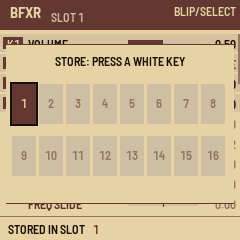
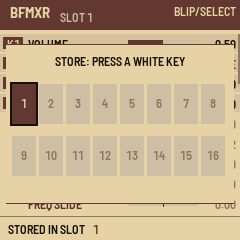
0.5: the firmware is BFMXR
The name on the screen, the splash, the USB device (BFMXR FM-1), the package
(bfmxr.fwsc), the installer, the Library page and its files, the guide and the
screen reader's words. The engine (app/bfxr.c) and bfxr.net / bfxr2 keep their
names. The package identity (FM-1_62) is unchanged, so 0.5 installs over BFXR
and keeps its settings and slots.

Claude-Session: https://claude.ai/code/session_01P2YZfcTCoPyuHSCDNbEdpU

Changed region(s): [[0.0875, 0.0292, 0.4083, 0.1167]]

diff --git a/web/library/index.html b/web/library/index.html
@@ -1,6 +1,6 @@
 <!doctype html>
 <!-- SPDX-License-Identifier: MIT
-     BFXR's Library: the 16 sounds stored on an FM-1 running BFXR, read over USB (Web MIDI SysEx, app/app.c "the slots
+     BFMXR's Library: the 16 sounds stored on an FM-1 running BFMXR, read over USB (Web MIDI SysEx, app/app.c "the slots
      over USB"), played, saved as .bfxr (bfxr.net's file) and .wav, and .bfxr files sent back into the slots.
      The sounds are rendered by bfxr2's library (bfxrlib.min.js, MIT, Stephen Lavelle), copied beside this page by the
      build. The part between the "protocol" markers is what tools/library_test.mjs runs against the simulator. -->
@@ -8,7 +8,7 @@
 <head>
 <meta charset="utf-8">
 <meta name="viewport" content="width=device-width, initial-scale=1">
-<title>Library · BFXR</title>
+<title>Library · BFMXR</title>
 <style>
 :root { --ground: #e7d1a7; --card: #f0e0bf; --ink: #1e100c; --muted: #6b4a3a; --bar: #5e3028; --rule: #ccbda1; --teal: #065456; }
 * { box-sizing: border-box; }
@@ -43,10 +43,10 @@ a { color: var(--bar); }
 </head>
 <body>
 <main>
-<h1>BFXR Library</h1>
+<h1>BFMXR Library</h1>
 <p class="lead">The 16 sounds on your FM-1: play them, save them to your computer as <b>.bfxr</b> (opens in
 <a href="https://www.bfxr.net">bfxr.net</a>) or <b>.wav</b>, and send .bfxr files back. Chrome or Edge, with the FM-1
-connected by USB and running BFXR.</p>
+connected by USB and running BFMXR.</p>
 
 <div class="bar">
   <button id="connect">Connect</button>
@@ -65,7 +65,7 @@ connected by USB and running BFXR.</p>
       bfxr.net's <b>Bfxr</b> sounds can be sent (not its other synths).</li>
     <li>The .wav files are rendered here by bfxr's own code, at 44.1 kHz.</li>
   </ul>
-  <p><a href="../">BFXR</a> · <a href="https://github.com/nickhelliot/Bfm-1xr">Source</a></p>
+  <p><a href="../">BFMXR</a> · <a href="https://github.com/nickhelliot/Bfm-1xr">Source</a></p>
 </div>
 </main>
 
@@ -112,7 +112,7 @@ const listRequest = () => [...HEAD, 0x01, 0xF7];
 const writeRequest = (slot, values) => [...HEAD, 0x04, slot, ...encodeSound(values), 0xF7];
 const clearRequest = slot => [...HEAD, 0x06, slot, 0xF7];
 // a frame from the FM-1 (F0 .. F7) -> {type: 'slot', slot, used, values} | {type: 'end', version, nslots} |
-// {type: 'reply', slot, status} | null (not BFXR's)
+// {type: 'reply', slot, status} | null (not BFMXR's)
 function parseFrame(d) {
   if (d.length < 6 || d[0] !== 0xF0 || d[d.length - 1] !== 0xF7) return null;
   for (let i = 0; i < 4; i++) if (d[i] !== HEAD[i]) return null;
@@ -186,7 +186,7 @@ function zipBytes(files) {
   for (const p of all) { out.set(p, o); o += p.length; }
   return out;
 }
-const slotName = slot => slot === CURRENT ? 'bfxr-current' : `bfxr-slot-${String(slot + 1).padStart(2, '0')}`;
+const slotName = slot => slot === CURRENT ? 'bfmxr-current' : `bfmxr-slot-${String(slot + 1).padStart(2, '0')}`;
 // --- end protocol ---
 
 const $ = id => document.getElementById(id);
@@ -213,13 +213,13 @@ function pickPorts() {
   const sel = $('port');
   sel.innerHTML = '';
   outs.forEach((o, i) => { const opt = document.createElement('option'); opt.value = i; opt.textContent = o.name; sel.appendChild(opt); });
-  const guess = outs.findIndex(o => /bfxr|fm-?1/i.test(o.name));
+  const guess = outs.findIndex(o => /bfm?xr|fm-?1/i.test(o.name));
   sel.value = String(guess >= 0 ? guess : 0);
   sel.hidden = outs.length < 2;
   const use = () => {
     output = outs[Number(sel.value)] || null;
     if (input) input.onmidimessage = null;
-    input = ins.find(i => output && i.name === output.name) || ins.find(i => /bfxr|fm-?1/i.test(i.name)) || ins[0] || null;
+    input = ins.find(i => output && i.name === output.name) || ins.find(i => /bfm?xr|fm-?1/i.test(i.name)) || ins[0] || null;
     if (input) input.onmidimessage = onMessage;
     $('read').disabled = !(input && output);
   };
@@ -244,7 +244,7 @@ function readAll() {
   if (!output) return;
   const got = [];
   status('Reading...');
-  const timer = setTimeout(() => { waiting = null; status('No answer: is the FM-1 running BFXR?', true); }, 4000);
+  const timer = setTimeout(() => { waiting = null; status('No answer: is the FM-1 running BFMXR?', true); }, 4000);
   waiting = f => {
     if (f.type === 'slot') got[f.slot] = f;
     if (f.type === 'end') {
@@ -326,7 +326,7 @@ $('all').onclick = () => {
     const name = slotName(slot);
     files.push([name + '.bfxr', new TextEncoder().encode(toBfxr(s.values, name))], [name + '.wav', wavOf(s.values)]);
   });
-  download('bfxr-sounds.zip', zipBytes(files), 'application/zip');
+  download('bfmxr-sounds.zip', zipBytes(files), 'application/zip');
 };
 
 if (!navigator.requestMIDIAccess) status('This page needs Web MIDI: open it in Chrome or Edge.', true);

diff --git a/app/app.h b/app/app.h
@@ -1,11 +1,11 @@
 /* SPDX-License-Identifier: MIT
- * BFXR for the FM-1: bfxr.net's sound effects on the keyboard. The app's half of the contract with fm1-base
+ * BFMXR for the FM-1: bfxr.net's sound effects on the keyboard. The app's half of the contract with fm1-base
  * (base/device/unity.c, base/host/plat_host.c). */
 #pragma once
 #include <stdint.h>
 #include "plat.h"
 
-#define APP_NAME "BFXR"
+#define APP_NAME "BFMXR"
 #define APP_SPLASH_RGB RGB(94, 48, 40)
 #define APP_BLOCK 256u                   /* frames per audio block: 5.8 ms at 44.1 kHz */
 #define APP_CANVAS_PX (240u * 240u)      /* the whole screen drawn at once */

diff --git a/app/bfxr.h b/app/bfxr.h
@@ -1,5 +1,5 @@
 /* SPDX-License-Identifier: MIT
- * BFXR for the FM-1: the classic Bfxr sound engine of bfxr2 (https://github.com/increpare/bfxr2, MIT, Copyright (c)
+ * BFMXR for the FM-1: the classic Bfxr sound engine of bfxr2 (https://github.com/increpare/bfxr2, MIT, Copyright (c)
  * 2021 Stephen Lavelle), itself from Thomas Vian's SfxrSynth (Apache-2.0, Copyright 2010 Thomas Vian), rewritten to
  * play sample by sample instead of into a buffer. The parameters, their ranges and the sound generators are bfxr2's. */
 #pragma once

diff --git a/app/bfxr.c b/app/bfxr.c
@@ -1,5 +1,5 @@
 /* SPDX-License-Identifier: MIT
- * BFXR for the FM-1: bfxr2's classic Bfxr engine (js/audio/Bfxr_DSP.js) played sample by sample, and its sound
+ * BFMXR for the FM-1: bfxr2's classic Bfxr engine (js/audio/Bfxr_DSP.js) played sample by sample, and its sound
  * generators (js/synths/Bfxr.js). Line for line with the JavaScript, quirks included; see bfxr.h for the credits.
  * Checked against the JavaScript's output on a computer: tools/check_engine.c. */
 #include "bfxr.h"

diff --git a/app/app.c b/app/app.c
@@ -1,5 +1,5 @@
 /* SPDX-License-Identifier: MIT
- * BFXR for the FM-1: bfxr.net's sound maker on the keyboard. The engine and the generators are bfxr.c; this is the
+ * BFMXR for the FM-1: bfxr.net's sound maker on the keyboard. The engine and the generators are bfxr.c; this is the
  * screen, the controls and the sound's way out. Part of fm1-base's unity build (after the platform: gfx.c and
  * announce.c are in scope); bfxr.c is a separate unit at -O2 (fm1.toml o2).
  *

diff --git a/README.md b/README.md
@@ -1,9 +1,9 @@
-# BFXR for the M-VAVE FM-1
+# BFMXR for the M-VAVE FM-1
 
-BFXR turns the FM-1 into [bfxr.net](https://www.bfxr.net)'s sound-effect maker: coins, lasers, explosions, power-ups,
+BFMXR turns the FM-1 into [bfxr.net](https://www.bfxr.net)'s sound-effect maker: coins, lasers, explosions, power-ups,
 hits, jumps and blips, made the way bfxr.net makes them and played from the keys.
 
-![The BFXR screen](docs/screen.png)
+![The BFMXR screen](docs/screen.png)
 
 **[Install it](https://nickhelliot.github.io/Bfm-1xr/install/)** · **[Try it in your browser](https://nickhelliot.github.io/Bfm-1xr/emu/)** · **[Library: your sounds on your computer](https://nickhelliot.github.io/Bfm-1xr/library/)**
 
@@ -14,7 +14,7 @@ hits, jumps and blips, made the way bfxr.net makes them and played from the keys
 1. Connect the FM-1 to your computer by USB and switch it on.
 2. Open **https://nickhelliot.github.io/Bfm-1xr/install/** in Chrome or Edge. Allow MIDI access when the browser asks.
 3. Press **Connect**, then **Install**. Keep the cable in and the tab open until it says it's done. The FM-1 restarts
-   into BFXR: a cream screen with a maroon header.
+   into BFMXR: a cream screen with a maroon header.
 
 If an install is interrupted, plug the FM-1 back in and press **Install** again: it carries on where it stopped.
 
@@ -23,7 +23,7 @@ To go back to M-VAVE's firmware or to another one, use the same page or the
 
 ## The screen
 
-- **Header:** BFXR, the slot you last stored or recalled (SLOT 3), the kind of sound you last made, and **PLAYING**
+- **Header:** BFMXR, the slot you last stored or recalled (SLOT 3), the kind of sound you last made, and **PLAYING**
   while a sound plays.
 - **The list:** bfxr's 32 parameters, each with a bar and its value. The bar fills from the left for settings that
   go from 0 up, and from the middle for settings that go both ways (up or down, faster or slower).
@@ -72,7 +72,7 @@ oldest sound rather than letting the audio crackle.
 
 ## Storing sounds
 
-BFXR has 16 slots, one for each white key, from the lowest (slot 1) to the highest (slot 16). They're kept when you
+BFMXR has 16 slots, one for each white key, from the lowest (slot 1) to the highest (slot 16). They're kept when you
 switch off.
 
 - **Store:** hold **SAVE** and press a white key. The sound goes into that slot, replacing whatever was there.
@@ -88,7 +88,7 @@ switch off.
 
 The **[Library](https://nickhelliot.github.io/Bfm-1xr/library/)** page reads the slots from the FM-1 over USB.
 
-1. Connect the FM-1 by USB with BFXR running, open the Library in Chrome or Edge, and press **Connect** (allow MIDI
+1. Connect the FM-1 by USB with BFMXR running, open the Library in Chrome or Edge, and press **Connect** (allow MIDI
    and SysEx when the browser asks). It reads the slots at once; **Read sounds** reads them again.
 2. For each sound:
    - **Play** plays it on the computer.
@@ -155,7 +155,7 @@ The same as bfxr.net's sliders, in the same order. Values are bfxr's, from 0 to 
 ## If something goes wrong
 
 - **It won't start, or keeps restarting:** hold **OCT−** while switching on. The FM-1 starts in its USB updater, with
-  no sound, so you can install BFXR again or another firmware.
+  no sound, so you can install BFMXR again or another firmware.
 - **The installer or the Library can't find the FM-1:** use Chrome or Edge, allow MIDI access, and try another USB
   cable or port. Close other programs that use MIDI (DAWs, other installer or Library tabs). If you see a list of
   ports on the Library page, pick the FM-1's.
@@ -177,9 +177,9 @@ GitHub builds every push (Actions, "Build firmware") and publishes the installer
 [fm1-base](https://github.com/charlesvestal/fm1-base), then:
 
     git clone --recursive -b claude/bfxr-firmware https://github.com/nickhelliot/Bfm-1xr
-    ./build.sh                     # app/build/bfxr.fwsc
-    ./build.sh --host              # the simulator: app/build/host/bfxr_host app/tests/basic.txt app/build/host
-    python3 base/tools/fm1_install.py app/build/bfxr.fwsc
+    ./build.sh                     # app/build/bfmxr.fwsc
+    ./build.sh --host              # the simulator: app/build/host/bfmxr_host app/tests/basic.txt app/build/host
+    python3 base/tools/fm1_install.py app/build/bfmxr.fwsc
 
 | Where | What |
 | --- | --- |
@@ -199,5 +199,5 @@ GitHub builds every push (Actions, "Build firmware") and publishes the installer
 - Platform: [fm1-base](https://github.com/charlesvestal/fm1-base) by Charles Vestal and
   [felucca-bsp](https://github.com/hugelton/felucca-bsp) by Leo Kuroshita (MPL-2.0), in `base/`
 
-BFXR's own files are MIT ([LICENSE](LICENSE)). M-VAVE and FM-1 are trademarks of their owners; BFXR is not affiliated
+BFMXR's own files are MIT ([LICENSE](LICENSE)). M-VAVE and FM-1 are trademarks of their owners; BFMXR is not affiliated
 with M-VAVE.

diff --git a/app/site/landing.md b/app/site/landing.md
@@ -1,10 +1,10 @@
-# BFXR
+# BFMXR
 
-BFXR turns the M-VAVE FM-1 into [bfxr.net](https://www.bfxr.net)'s sound-effect maker. Turn PRESET for a coin, a
+BFMXR turns the M-VAVE FM-1 into [bfxr.net](https://www.bfxr.net)'s sound-effect maker. Turn PRESET for a coin, a
 laser, an explosion, a powerup, a hit, a jump, a blip or something random; EDIT makes another of the same kind, FX
 mutates it, SELECT and the four knobs edit all 32 of bfxr's parameters, and the keys play it at any pitch.
 
-![BFXR on the FM-1's screen: the parameter list, K1 to K4 marking the rows the knobs change](img/screen.png "BFXR on the FM-1's screen")
+![BFMXR on the FM-1's screen: the parameter list, K1 to K4 marking the rows the knobs change](img/screen.png "BFMXR on the FM-1's screen")
 
 This is version {{VERSION}}. You install it at your own risk, and the installer can put M-VAVE's own firmware back.
 
@@ -18,4 +18,4 @@ This is version {{VERSION}}. You install it at your own risk, and the installer 
   [fm1-base](https://github.com/charlesvestal/fm1-base) and felucca-bsp, which come from Felucca by Leo Kuroshita,
   Hügelton Instruments.
 
-M-VAVE and FM-1 are trademarks of their owners. BFXR is not affiliated with M-VAVE.
+M-VAVE and FM-1 are trademarks of their owners. BFMXR is not affiliated with M-VAVE.
